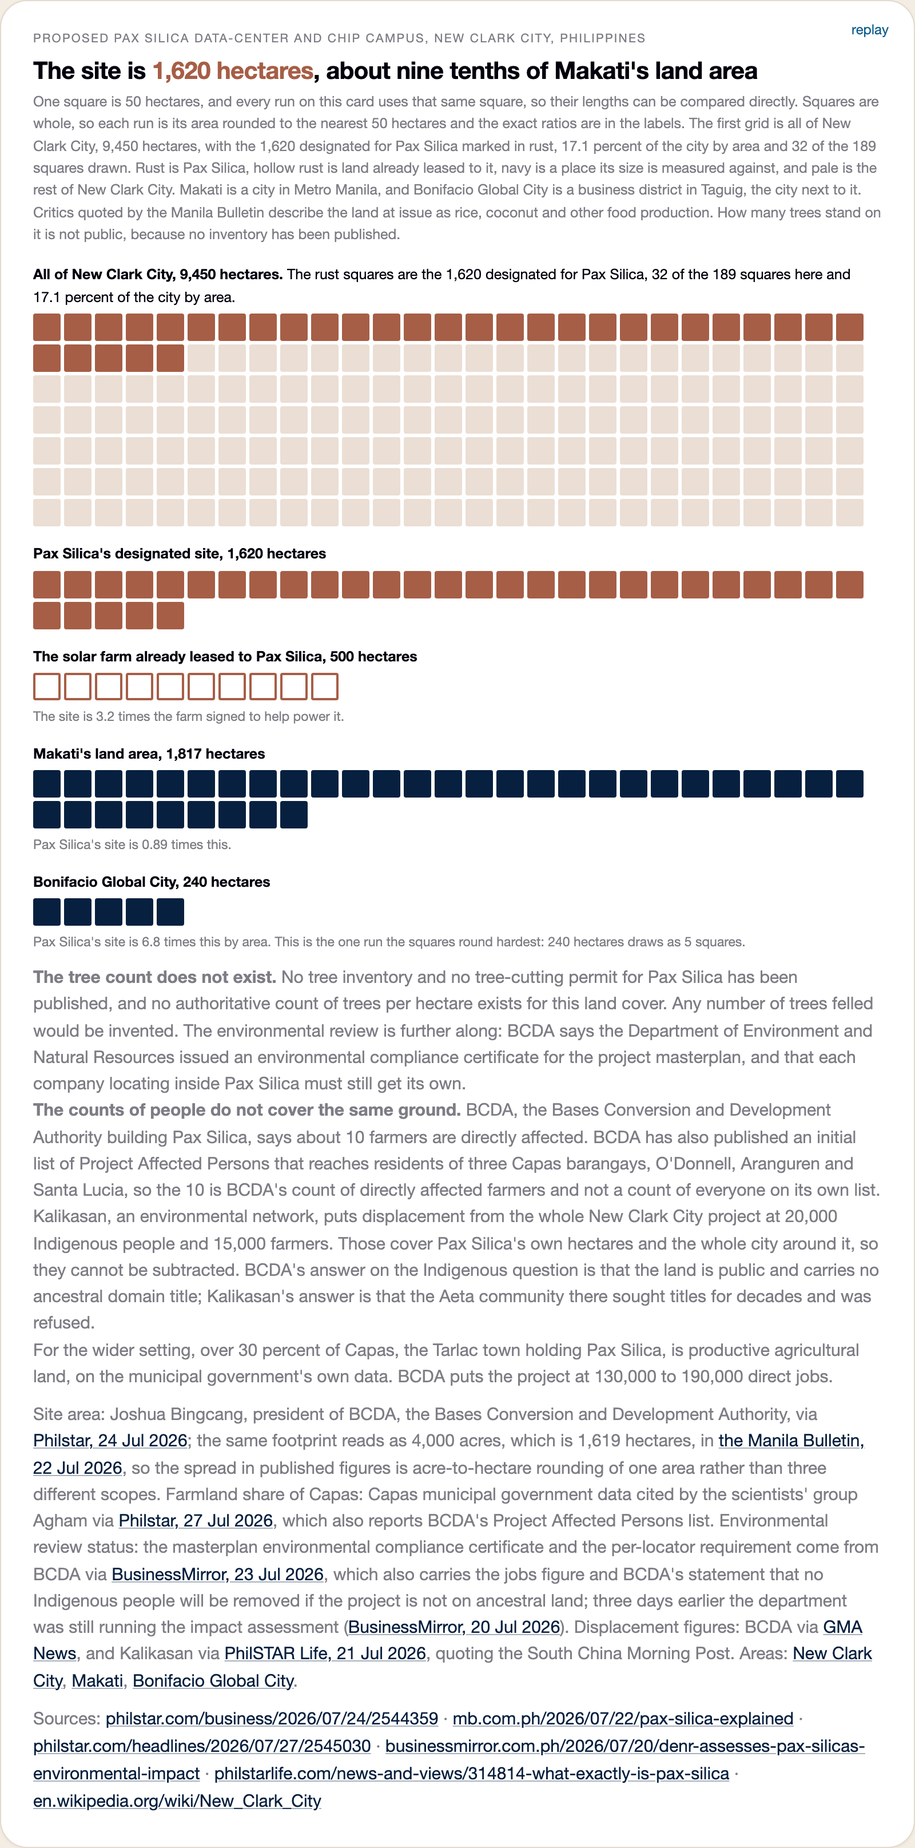
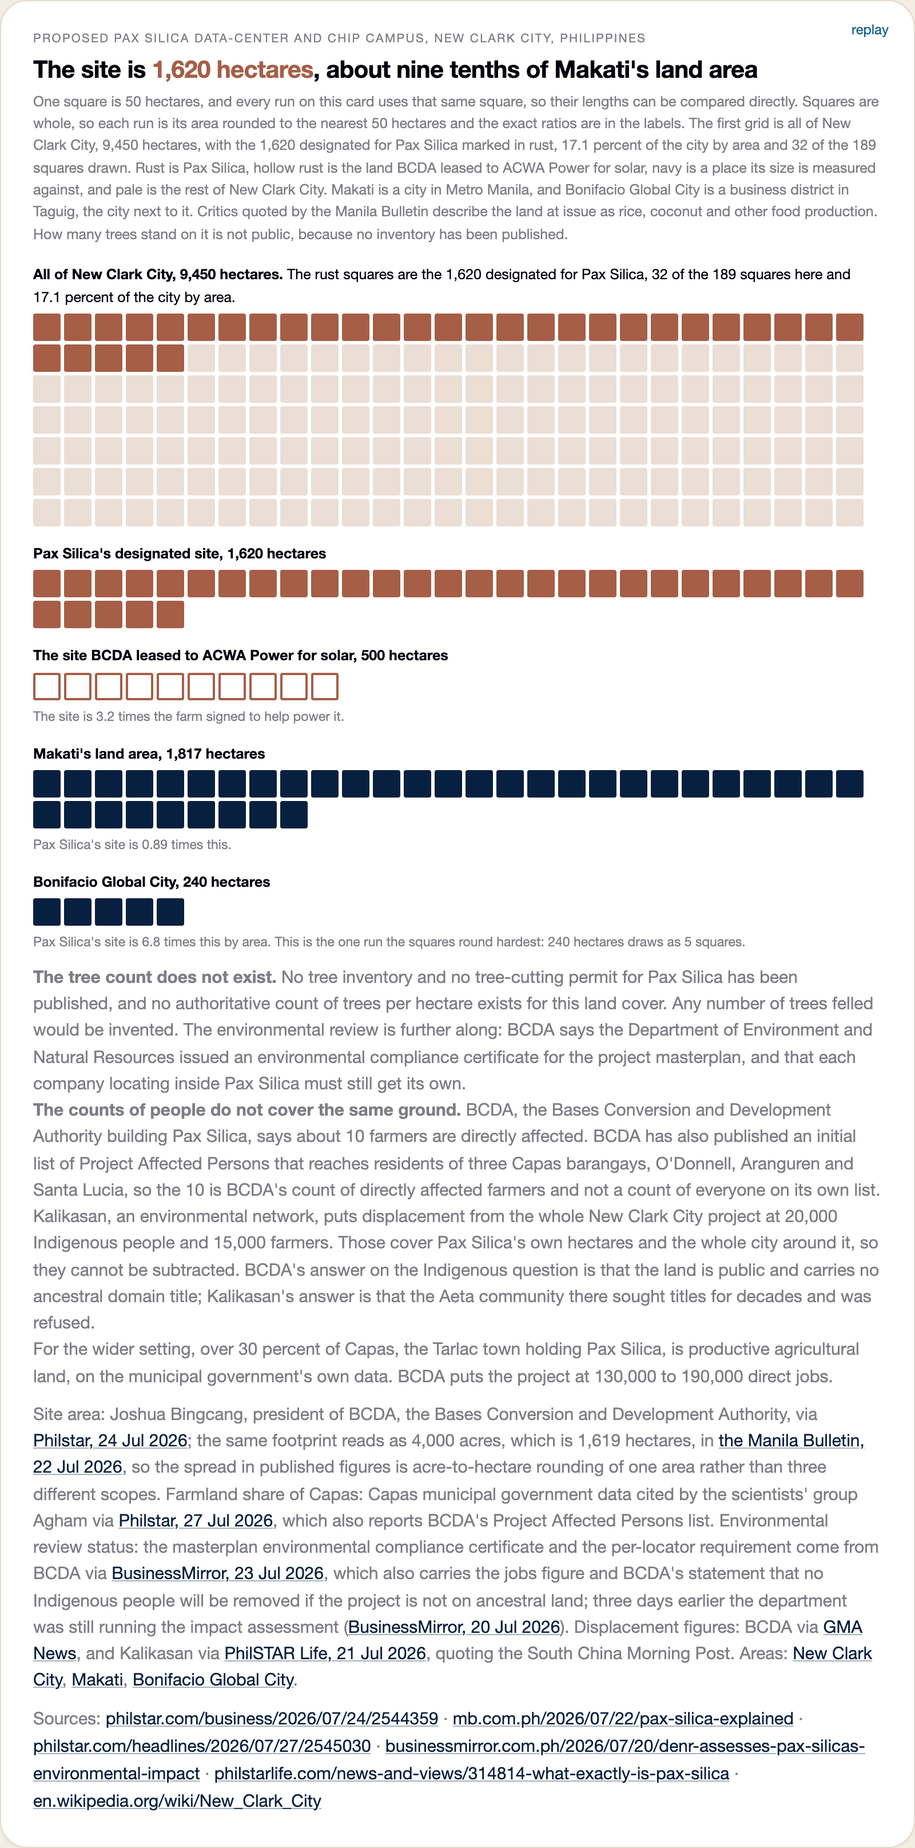
Give the substation date back to BCDA, and correct five more things a fresh critic landed
A seventh reader, told nothing about the earlier passes, found six defects. All
six check out against the sources.

The substation carried one owner where it needed two. NGCP's Transmission
Development Plan 2024 to 2050 holds the Capas 230 kV facility and the P6.95
billion. The end-2028 date is BCDA's own target, in Bingcang's words "our target
with them is by [the] end of 2028". The page filed both under "NGCP plan", and
the nine-to-twelve-month squeeze rests on that date being a grid-operator
commitment rather than a client's statement.

The undersea link's bar started at "450 MW". NGCP article 16636 says the 30
April 2023 energisation carried an initial load of 22.5 MW, and 450 MW is where
that bar ends, not where it starts. The mark now reads from the bake.

Also:
- "The last two big Philippine grid builds" ranked builds NGCP does not rank.
  Say which two, say what kind, and say that the ranking covers long-distance
  transmission and nothing wider.
- The solar cards had ACWA Power's lease running backwards. ACWA leased the site
  from BCDA. Pax Silica is not a party and Enerdata does not name it.
- The pond appeared as free water. Agham's answer, in an article this page
  already cites twice, is that harvesting surface water still reduces what is
  available to farmers and to communities downstream. It sits on the pond now.
- The grid-supply row cited BCDA for July as well as June. Only June carries it,
  and it carries it as a direct quote, so quote it.
[…]

diff --git a/web/pax-silica.html b/web/pax-silica.html
@@ -305,7 +305,7 @@ on 16 June</a>, against 2,581 and 2,587 MW available.</p>
 
 <!-- ============================ BEAT 2: SUN ============================== -->
 <section class="beat" id="b-sun">
-<h2>The solar farm signed for Pax Silica covers 4 percent of its electricity for a day. Running Pax Silica on sunlight alone would take panels covering more than six times the area of Makati.</h2>
+<h2>The solar farm leased next door covers 4 percent of Pax Silica's electricity for a day. Running Pax Silica on sunlight alone would take panels covering more than six times the area of Makati.</h2>
 <p>The first answer anyone reaches for is solar, and one is actually signed:
 <a href="https://www.enerdata.net/publications/daily-energy-news/acwa-power-secures-site-500-mw-solar-bess-project-philippines.html">ACWA
 Power leased 500 hectares in June 2026 for a farm of up to 500 MW with
@@ -317,7 +317,7 @@ sunset, and count what it covers of Pax Silica's 72,000 megawatt-hour (MWh) day.
   <div class="figtitle">Pax Silica's signed solar farm covers <em class="pop">4.1%</em> of the electricity it needs for a day</div>
   <div class="figsub">One day, hour by hour, in megawatts (MW). The dashed line is
   what Pax Silica draws every hour of the day and night. The filled shape under it is what the
-  500 MW solar farm leased to Pax Silica would make, on a cloudless model day, the
+  500 MW solar farm ACWA Power leased its site for would make, on a cloudless model day, the
   best case for solar.</div>
   <div id="acwa-day"></div>
   <div class="cellnote" id="acwa-note"></div>
@@ -403,22 +403,29 @@ partner standing, so this is the two-circuit case, not the one-circuit case.</p>
 
 <p>The announced fix is real but modest against the ask:
 <a href="https://mb.com.ph/2026/05/25/us-pax-silica-alliance-prompts-7-billion-power-expansion-in-new-clark-city">a
-dedicated 230 kV substation for New Clark City, P6.95 billion, targeted for
-end-2028</a>, in the same voltage class as the corridor that is already the
-bottleneck. And the recent record says the last kilometers of big grid builds
+dedicated 230 kV substation for New Clark City, P6.95 billion in NGCP's
+transmission development plan, which BCDA targets for end-2028</a>, in the same
+voltage class as the corridor that is already the bottleneck. The two halves
+have different owners: NGCP's plan carries the facility and the money, and the
+date is BCDA's stated target for it. And the recent record says the last kilometers of big grid builds
 are the slow part:</p>
 
 <div class="fig tlwrap" id="fig-record" style="--accent:#A65E46">
   <button class="replay" data-replay="fig-record">replay</button>
   <div class="figkick">Proposed Pax Silica data-center and chip campus, New Clark City, Philippines</div>
-  <div class="figtitle">The last two big Philippine grid builds took <em class="pop">13 and 9 months</em> between first power and full service</div>
-  <div class="figsub">The two most recent big builds by NGCP, the National Grid
-  Corporation of the Philippines, measured in calendar time from the day each first
-  carried power to the day it ran at full service. Both bars sit on one 24-month
+  <div class="figtitle">NGCP's two most recent long-distance builds took <em class="pop">13 and 9 months</em> between first power and full service</div>
+  <div class="figsub">Two builds by NGCP, the National Grid
+  Corporation of the Philippines: its 500 kilovolt Luzon backbone line and its
+  submarine link between Mindanao and the Visayas. They are the two most recent
+  NGCP projects of that kind, each measured in calendar time from the day it first
+  carried power to the day it ran at full service. NGCP publishes no ranking of
+  its builds, so treat "most recent" as covering long-distance transmission and
+  nothing wider. Both bars sit on one 24-month
   axis, January 2023 to December 2024, so their lengths can be compared directly.
   The rust band inside the first bar is a nine-month court order that stopped the
-  work, which is most of why that one took 13 months. Amounts are in Philippine
-  pesos.</div>
+  work, which is most of why that one took 13 months. The undersea link opened at
+  22.5 MW and reached its full 450 MW at the end of its bar. Amounts are in
+  Philippine pesos.</div>
   <div class="strip">
     <div class="name"><a href="https://ngcp.ph/article?cid=16897">Hermosa-San Jose
     500 kilovolt transmission line</a>,
@@ -432,7 +439,7 @@ are the slow part:</p>
     <div class="tl" id="tl-mvip"></div>
   </div>
   <div class="strip">
-    <div class="name">The power substation promised for Pax Silica, on its own
+    <div class="name">The power substation BCDA targets for Pax Silica, on its own
     2026-to-2028 axis. The dashed bar runs from Pax Silica's initial site
     development starting, in the first quarter of 2028, to the substation being
     due at the end of 2028.</div>
@@ -445,9 +452,10 @@ are the slow part:</p>
   unimpeded route, and NGCP turned down the offer from BCDA, the Bases
   Conversion and Development Authority, to prefund the work because
   the substation already sits in its capital plan. What the two bars still show
-  is how long the last kilometers take once building starts. The Pax Silica substation
+  is how long the last kilometers take once building starts. BCDA targets the Pax
+  Silica substation
   (<a href="https://mb.com.ph/2026/05/25/us-pax-silica-alliance-prompts-7-billion-power-expansion-in-new-clark-city">Manila
-  Bulletin, 25 May 2026</a>) is due at the end of 2028 while Pax Silica's
+  Bulletin, 25 May 2026</a>) for the end of 2028 while Pax Silica's
   initial site development starts in the first quarter of 2028. Depending where in that quarter it starts,
   that leaves nine to twelve months, against the 13 and 9 months the two builds
   above took.</p>
@@ -519,9 +527,10 @@ P0.56 per kWh, and the largest single value in the sample is P19.28 on 26 May
 <section class="beat" id="b-own">
 <h2>Pax Silica's own power station is the actual plan, and it still leans on the same two power routes</h2>
 <p>Which is why BCDA says Pax Silica will build its own power on site rather
-than lean on the grid for the whole 3,000 MW. It has not turned grid supply
-down: BCDA also says it is looking outside New Clark City for power, and NGCP is
-building the dedicated substation. Follow the on-site plan at 7pm: say Pax
+than lean on the grid for the whole 3,000 MW. It did not turn grid supply
+down. In June 2026 Bingcang put it this way: "We're looking at a power
+requirement so huge that we will be looking outside of our territory to come up
+with a power source." NGCP is building the dedicated substation. Follow the on-site plan at 7pm: say Pax
 Silica builds 2,500 MW of its own and draws the last 500 over the lines. The bar
 fills. It works.</p>
 <p>Then one 600 MW unit goes out, a generator about the size of one of the
@@ -600,7 +609,12 @@ and the division is simple. Here is that number three ways.</p>
     water harvesting facility BCDA describes</a> would supply</b>, if it is built
     and if the rain arrives. BCDA
     <a href="https://www.manilatimes.net/2026/07/24/regions/rainwater-eyed-for-use-at-planned-pax-silica-hub/2390193">says
-    it is evaluating a proposal</a>. It does not exist yet.</div>
+    it is evaluating a proposal</a>. It does not exist yet, and it is not free
+    water: the scientists' group Agham
+    <a href="https://www.philstar.com/headlines/2026/07/27/2545030/scientists-group-debunks-claims-pax-silica-project">answers
+    that harvesting surface water "will still mean reducing the water used or
+    available for farmers and their communities, including communities downstream
+    of the project."</a></div>
     <div id="pond-bar"></div>
   </div>
   <div class="droprow">
@@ -686,7 +700,7 @@ them against the city they sit in and two places whose size people know.</p>
   City, 9,450 hectares, with the 1,620 designated for Pax Silica marked in rust,
   17.1 percent of the city by area and 32 of the 189 squares drawn.
   Rust is Pax
-  Silica, hollow rust is land already leased to it, navy is a place its size is
+  Silica, hollow rust is the land BCDA leased to ACWA Power for solar, navy is a place its size is
   measured against, and pale is the rest of New Clark City. Makati is a city in
   Metro Manila, and Bonifacio Global City is a business district in Taguig, the city
   next to it. Critics quoted by the Manila Bulletin describe the land at issue as
@@ -756,9 +770,9 @@ them against the city they sit in and two places whose size people know.</p>
     <td>The daily household water planned for 433,000 to 600,000 people, or the irrigation for 500 to 690 hectares of paddy rice</td></tr>
 <tr><td>500 MW solar with storage on 500 hectares (ACWA lease, Jun 2026)</td>
     <td>4.1% of Pax Silica's day, on a cloudless day, and nothing at the 7pm peak</td></tr>
-<tr><td>P6.95B dedicated 230 kV substation by end-2028 (NGCP plan, May 2026)</td>
+<tr><td>A dedicated 230 kV substation at P6.95B in NGCP's transmission development plan, which BCDA targets for end-2028 (Manila Bulletin, 25 May 2026)</td>
     <td>The two existing 230 kV routes deliver about 770 MW of the 3,000 at 7pm</td></tr>
-<tr><td>An on-site power station is BCDA's plan, and it is also looking outside New Clark City for power (BCDA, Jun and Jul 2026)</td>
+<tr><td>An on-site power station is BCDA's plan (BCDA, Jul 2026), and in June 2026 its president said it was also looking outside New Clark City for power (Inquirer Business, 22 Jun 2026)</td>
     <td>Serving the whole 3,000 MW from the grid instead doubles the modeled Luzon price to P12.00 from P6.00, on a P12.00 oil cost this page labels an assumption</td></tr>
 <tr><td>BCDA puts 130,000 to 190,000 direct jobs on the project (BCDA, 24 Jul 2026)</td>
     <td>Not costed here. This page counts what Pax Silica would draw, not what it would return</td></tr>
@@ -789,7 +803,7 @@ what Pax Silica would be worth.</div>
 <li>BCDA on water and the 120-million-liter-a-day harvesting facility: <a href="https://businessmirror.com.ph/2026/07/23/bcda-pax-silica-development-to-proceed-under-marcos-admin-creating-up-to-190k-jobs/">BusinessMirror, 23 Jul 2026</a>; <a href="https://www.manilatimes.net/2026/07/24/regions/rainwater-eyed-for-use-at-planned-pax-silica-hub/2390193">Manila Times, 24 Jul 2026</a>.</li>
 <li>National Water Resources Board sufficiency statement: <a href="https://businessmirror.com.ph/2026/07/22/local-water-source-enough-to-supply-pax-silica-operation-water-board/">BusinessMirror, 22 Jul 2026</a>. Dispute and displacement figures: <a href="https://www.gmanetwork.com/news/topstories/regions/996145/explainer-how-would-pax-silica-sustain-its-water-demand/story/">GMA News explainer</a>.</li>
 <li>ACWA Power's lease of a 500-hectare site for up to 500 MW, signed with BCDA on 2 June 2026: <a href="https://www.enerdata.net/publications/daily-energy-news/acwa-power-secures-site-500-mw-solar-bess-project-philippines.html">Enerdata daily energy news, 5 Jun 2026</a>, which names New Clark City and not Pax Silica. BCDA ties the same 500 MW to Pax Silica in <a href="https://www.gmanetwork.com/news/money/economy/995915/pax-silica-ai-hub-to-consume-3-gigawatts-at-full-development-bcda/story/">GMA News, 23 Jul 2026</a>.</li>
-<li>NGCP Capas-area 230 kV substation, P6.95B, end-2028: <a href="https://mb.com.ph/2026/05/25/us-pax-silica-alliance-prompts-7-billion-power-expansion-in-new-clark-city">Manila Bulletin, 25 May 2026</a>, from the NGCP transmission development plan.</li>
+<li>The Capas 230 kV substation and its P6.95 billion come from NGCP's Transmission Development Plan 2024 to 2050. The end-2028 date is BCDA's own target, in Bingcang's words "our target with them is by [the] end of 2028": <a href="https://mb.com.ph/2026/05/25/us-pax-silica-alliance-prompts-7-billion-power-expansion-in-new-clark-city">Manila Bulletin, 25 May 2026</a>.</li>
 <li>Hermosa-San Jose 500 kV milestones and the Supreme Court order: <a href="https://ngcp.ph/article?cid=16897">ngcp.ph article 16897</a>, which names the wider facility Mariveles-Hermosa-San Jose; its P10.2 billion is the Energy Regulatory Commission's provisional approval for the Hermosa-San Jose line, <a href="https://www.ngcp.ph/article?cid=16649">ngcp.ph article 16649</a>. Mindanao-Visayas link, P52 billion and 450 MW and the 30 April 2023 energisation at an initial 22.5 MW: <a href="https://www.ngcp.ph/article?cid=16636">ngcp.ph article 16636</a>; full commercial operation on 26 January 2024: <a href="https://www.ngcp.ph/article?cid=16899">ngcp.ph article 16899</a>.</li>
 <li>MTerra Solar 3,500 MW / 3,500 ha / 4,500 MWh: <a href="https://www.meralcopowergen.com.ph/mterra-solar-project-breaks-ground-a-monumental-milestone-in-the-philippines-renewable-energy-transition/">Meralco PowerGen</a>, <a href="https://www.pv-magazine-australia.com/2024/11/22/worlds-largest-3-5-gw-terra-solar-project-breaks-ground-in-the-philippines/">pv-magazine</a>, and <a href="https://en.wikipedia.org/wiki/Meralco_Terra_Solar_Farm">Wikipedia</a>.</li>
 <li>The 200 kWh a month Meralco works its own example bill on: <a href="https://company.meralco.com.ph/news-and-advisories/higher-residential-rates-july-2026">Meralco July 2026 rate advisory</a>. Makati 2024 census and area: PSA via <a href="https://en.wikipedia.org/wiki/Makati">Wikipedia</a>, after the Embo transfer to Taguig. Other areas: <a href="https://en.wikipedia.org/wiki/Bonifacio_Global_City">Bonifacio Global City</a>, <a href="https://en.wikipedia.org/wiki/New_Clark_City">New Clark City</a>.</li>
@@ -1251,8 +1265,8 @@ this page is dated 27 Jul 2026 and its numbers are baked from
        {m:17.7, t:"Jun 2024: full 8,000 MW"}]);
     strip("tl-mvip",
       [{cls:"span", a:3.9, b:12.8}],
-      [{m:3.9, t:"Apr 2023: first power, 450 MW"},
-       {m:12.8, t:"Jan 2024: full service"}]);
+      [{m:3.9, t:"Apr 2023: first power, " + P.wires.mvip.first_load_mw + " MW"},
+       {m:12.8, t:"Jan 2024: full service, " + P.wires.mvip.mw + " MW"}]);
     if (tnarrow){
       period("tl-hsj", "First power May 2023, full capacity Jun 2024, 13 months.");
       period("tl-mvip", "First power Apr 2023, full service Jan 2024, 9 months.");
@@ -1685,7 +1699,7 @@ this page is dated 27 Jul 2026 and its numbers are baked from
         siteSq, {n: siteSq, k: "hit"});
     // Pax Silica's own land first, then the places it is measured against, each
     // group largest first, so the row order is not a size ramp that breaks
-    run("<b>The solar farm already leased to Pax Silica, " + fmt(s.acwa_ha)
+    run("<b>The site BCDA leased to ACWA Power for solar, " + fmt(s.acwa_ha)
         + " hectares</b>", Math.round(s.acwa_ha / PER), {n: 999, k: "own"},
         "The site is " + s.vs_acwa + " times the farm signed to help power it.");
     run("<b>Makati's land area, " + fmt(s.makati_ha) + " hectares</b>",

diff --git a/pipeline/perspective.py b/pipeline/perspective.py
@@ -82,9 +82,16 @@ ECC_MASTERPLAN_ISSUED = True
 ECC_PER_LOCATOR_PENDING = True
 TREE_COUNT_PUBLISHED = False
 
-# NGCP dedicated 230 kV substation for New Clark City, P6.95B, end-2028 target
+# The Capas 230 kV substation. The cost and the facility are NGCP's, from its
+# Transmission Development Plan 2024 to 2050: "According to the plan, NGCP will
+# allocate P6.95 billion to develop the facility." The end-2028 date is BCDA's
+# target, not NGCP's commitment: Bingcang said "Our target with them is by [the]
+# end of 2028, the dedicated power connection should be already installed in New
+# Clark City." Keep the two owners apart wherever the page prints them.
 # https://mb.com.ph/2026/05/25/us-pax-silica-alliance-prompts-7-billion-power-expansion-in-new-clark-city
 SUBSTATION_PHP_B, SUBSTATION_KV, SUBSTATION_YEAR = 6.95, 230, 2028
+SUBSTATION_COST_OWNER = "NGCP transmission development plan"
+SUBSTATION_DATE_OWNER = "BCDA target"
 
 # --- external anchors, each with its primary source --------------------------
 # Meralco's July 2026 rate advisory works its example bill at 200 kWh a month:
@@ -182,7 +189,7 @@ VISAYAS_BULLETIN = {"peak_lo": 2384, "peak_hi": 2482,
 # over all 70 days would be zero. The page must say which.
 DIPCEF = {"days_nonzero": 28, "days_sampled": 70, "median_php_kwh": 0.56,
           "median_basis": "node-hours where it fires",
-          "max_php_kwh": 19.0, "max_day": "2026-05-26"}
+          "max_php_kwh": 19.28, "max_day": "2026-05-26"}
 # The own-station illustration. Neither figure is announced: 2,500 MW is a
 # chosen station size and 600 MW a chosen unit size, close to one of the two
 # 647 MW units at Sual. Every place the page prints them reads from here.
@@ -472,7 +479,9 @@ def main() -> None:
                 * 24 * 1000 / (HOME_KWH_MONTH / DAYS_PER_MONTH) / 1e6, 1),
             "day": sites["day"],
             "substation": {"php_b": SUBSTATION_PHP_B, "kv": SUBSTATION_KV,
-                           "year": SUBSTATION_YEAR},
+                           "year": SUBSTATION_YEAR,
+                           "cost_owner": SUBSTATION_COST_OWNER,
+                           "date_owner": SUBSTATION_DATE_OWNER},
             "hsj": HSJ, "mvip": MVIP,
             "src": {
                 "limit": "https://github.com/xmpuspus/power-dispatch-studio/blob/main/pipeline/nodal_dcopf.py (solved on OpenStreetMap-mapped routes, https://www.openstreetmap.org/copyright ; ratings are class defaults, NGCP does not publish them)",

diff --git a/tests/test_perspective.py b/tests/test_perspective.py
@@ -75,6 +75,8 @@ def check_html_static_text(c, p, s, w, wa, pr, SITE):
     has("DIPCEF sample size",
         f"{pr['dipcef']['days_nonzero']} of {pr['dipcef']['days_sampled']} sampled days")
     has("DIPCEF median", f"P{pr['dipcef']['median_php_kwh']} per kWh")
+    has("DIPCEF maximum, to the precision the sweep measured",
+        f"P{pr['dipcef']['max_php_kwh']} on")
     has("passthrough peso line", f"P{pr['passthrough_php_month']:,} a month")
     has("olympic pool basis", "an Olympic pool holds 2.5 million liters")
     has("island population source", "Island populations, 2020 census")
@@ -301,8 +303,14 @@ def main():
         f"{w['limit_7pm_mw']}")
     pin("gap = campus - limit", w["gap_mw"] == round(c["mw"] - w["limit_7pm_mw"], 0))
     pin("site is radially fed in the model", w["radially_fed"] is True)
+    # the cost and the facility come from NGCP's plan; the date is BCDA's target.
+    # The page must not merge the two owners, so the bake keeps them apart.
+    sub = w["substation"]
     pin("substation is the announced P6.95B 230 kV end-2028",
-        w["substation"] == {"php_b": 6.95, "kv": 230, "year": 2028})
+        sub["php_b"] == 6.95 and sub["kv"] == 230 and sub["year"] == 2028)
+    pin("the substation cost and the substation date carry different owners",
+        sub["cost_owner"] == "NGCP transmission development plan"
+        and sub["date_owner"] == "BCDA target")
 
     pin("price: modeled on the same recorded day as the wires limit",
         pr["day"] == w["day"])

diff --git a/docs/pax-silica-visuals.md b/docs/pax-silica-visuals.md
@@ -60,8 +60,10 @@ neither report says how that fits with the announced 3,000.
 
 ![One day in megawatts. A flat dashed line at 3,000 for Pax Silica. A low filled hump for the solar farm, peaking at 390 at noon](pax-silica-figs/acwa.png)
 
-A real solar deal exists. ACWA Power leased 500 hectares in June 2026 to
-build up to 500 MW of solar with batteries. The chart draws one day in
+A real solar deal exists. ACWA Power leased 500 hectares from BCDA in June 2026
+to build up to 500 MW of solar with batteries. ACWA holds that lease, not Pax
+Silica, and the Enerdata report of it names New Clark City rather than Pax
+Silica. The chart draws one day in
 megawatts, so the sizes are the point rather than a percentage. The dashed
 line is Pax Silica drawing 3,000 MW every hour of the day and night. The filled
 shape is the farm on a perfect cloudless day, and at its noon best it reaches
@@ -101,7 +103,7 @@ cannot is the 3,000 MW Pax Silica needs every hour. This form answers the questi
 actually asks, which is not how full a tank is but the number of circuits
 missing. The answer is three.
 
-## The last two big Philippine grid builds took 13 and 9 months between first power and full service
+## NGCP's two most recent long-distance builds took 13 and 9 months between first power and full service
 
 ![Three timelines. Two finished builds from 2023 to 2024, one with a rust stretch marking a court stop, then the Pax Silica substation's own 2026-to-2028 window](pax-silica-figs/record.png)
 
@@ -131,9 +133,12 @@ are not equally cheap, so each block carries its own cost. The first line is thi
 the navy coal block, so coal sets the price at P6.00 per kWh. The second line
 adds Pax Silica, 15,018 MW. It lands on the rust oil block, so oil sets the
 price at P12.00, for every buyer on Luzon, all 24 hours of the replayed day.
+Oil is the plant that sets that price in 16 of the 24 hours; power pulled from
+the other island grids sets 6 and hydro sets 2.
 The small print adds what that means at home. If generation cost were
-passed through, P6.00 more per kWh is P1,200 a month more for the typical
-200 kWh household, a model figure rather than a forecast. The links between
+passed through in full, P6.00 more per kWh is P1,200 a month more on the
+200 kWh bill Meralco works its own example on. That is a model figure rather
+than a forecast, and the spot price is only one part of a generation charge. The links between
 islands go from about zero to P38 million of congestion rent in the
 modeled day. A what-if inside
 a model rather than a forecast, and it ignores that the wires to the site
@@ -202,7 +207,7 @@ length is the whole comparison. The first grid is all of New Clark City,
 9,450 hectares, with 32 of its 189 squares in rust. Pax Silica is 17.1 percent
 of the city it sits in. Below that, the same squares against places whose size
 people know. Pax Silica's own land comes first, so the site sits above the
-500-hectare solar farm already leased to help power it, which it is 3.2 times
+500-hectare site BCDA leased to ACWA Power for solar, which it is 3.2 times
 over. Then come the outside anchors. It is 0.89 times Makati's land area and
 6.8 times Bonifacio Global City.
 
